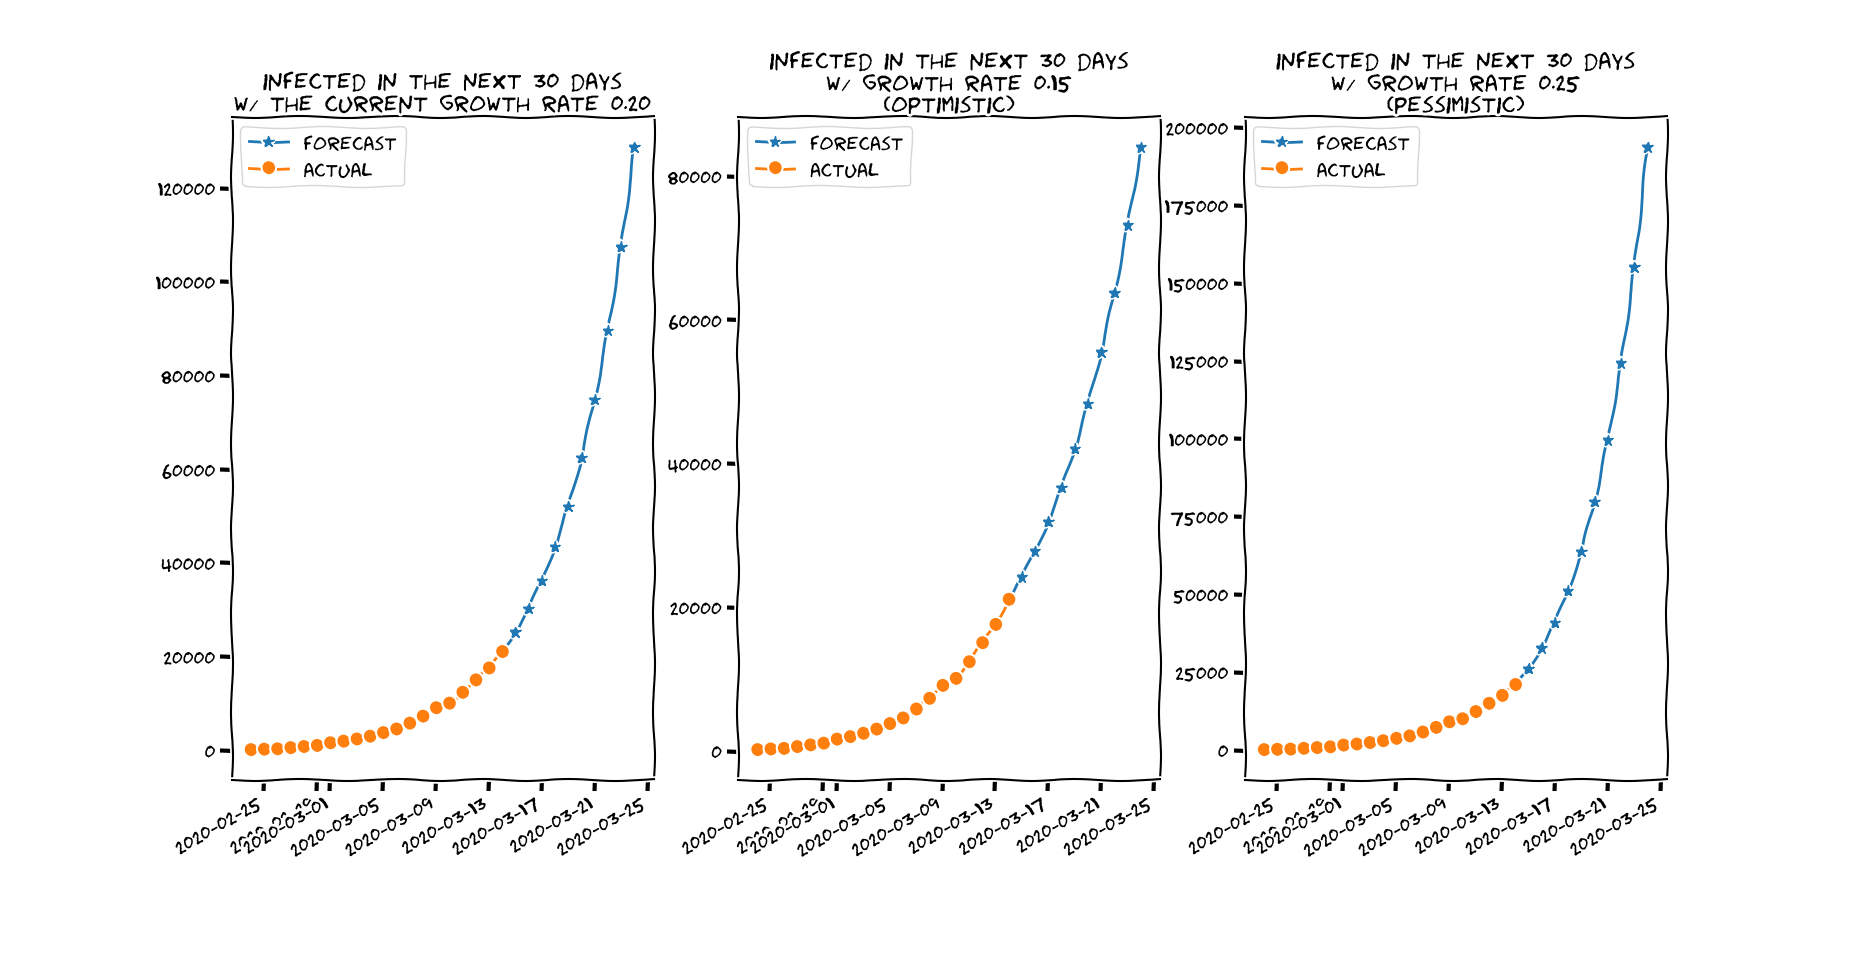
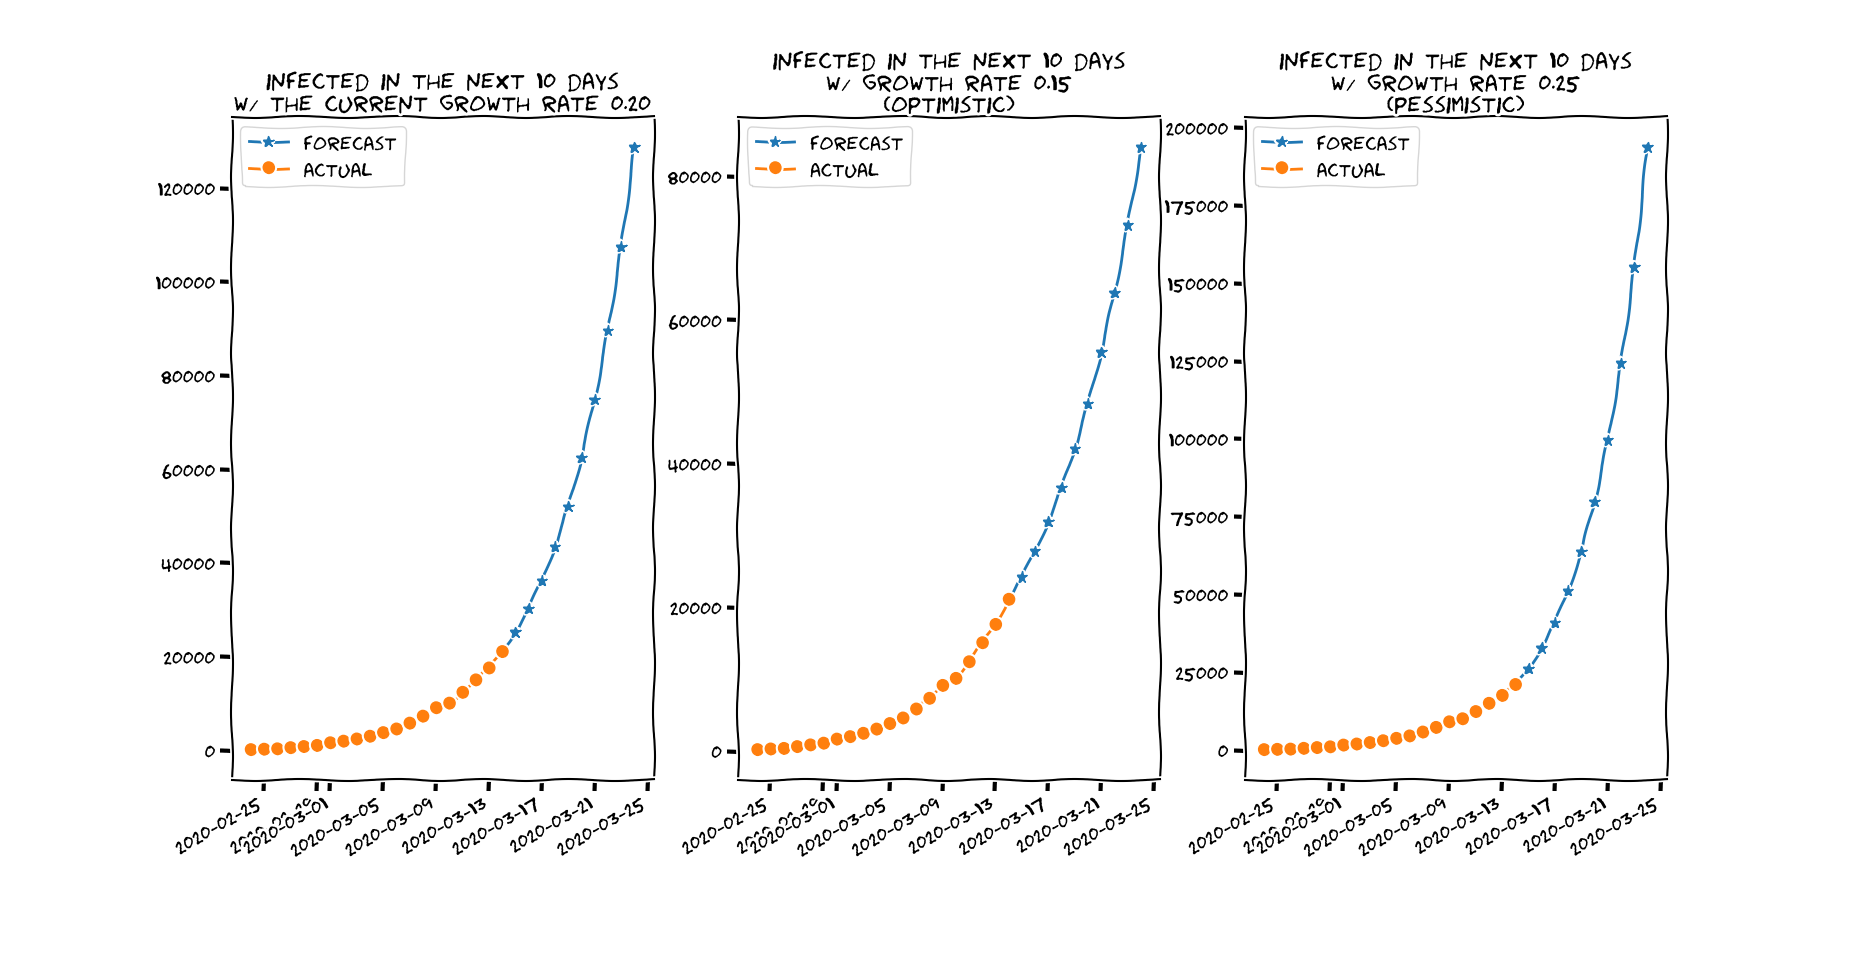
:pencil2: fix typo

Changed region(s): [[0.6771, 0.0308, 0.8925, 0.0923], [0.4001, 0.0308, 0.6156, 0.0923], [0.1231, 0.0615, 0.3386, 0.0923]]

diff --git a/main.py b/main.py
@@ -116,20 +116,20 @@ if __name__ == '__main__':
         ax1.plot(dates_forecast, infected_forecast, '*-', label='forecast')
         ax1.plot(dates, infected, 'o-', label='actual')
 
-        ax1.set_title(f'infected in the next 30 days\nw/ the current growth rate'
+        ax1.set_title(f'infected in the next 10 days\nw/ the current growth rate'
                       f' {growth_rate[-1]:.2f}')
         ax1.legend(loc='upper left')
 
         ax2.plot(dates_forecast, infected_forecast_optimistic, '*-', label='forecast')
         ax2.plot(dates, infected, 'o-', label='actual')
-        ax2.set_title(f'infected in the next 30 days\nw/ growth rate'
+        ax2.set_title(f'infected in the next 10 days\nw/ growth rate'
                       f' {growth_rate[-1] - 0.05:.2f}\n('
                       f'optimistic)')
         ax2.legend(loc='upper left')
 
         ax3.plot(dates_forecast, infected_forecast_pessimistic, '*-', label='forecast')
         ax3.plot(dates, infected, 'o-', label='actual')
-        ax3.set_title(f'infected in the next 30 days\nw/ growth rate'
+        ax3.set_title(f'infected in the next 10 days\nw/ growth rate'
                       f' {growth_rate[-1] + 0.05:.2f}\n('
                       f'pessimistic)')
         ax3.legend(loc='upper left')
